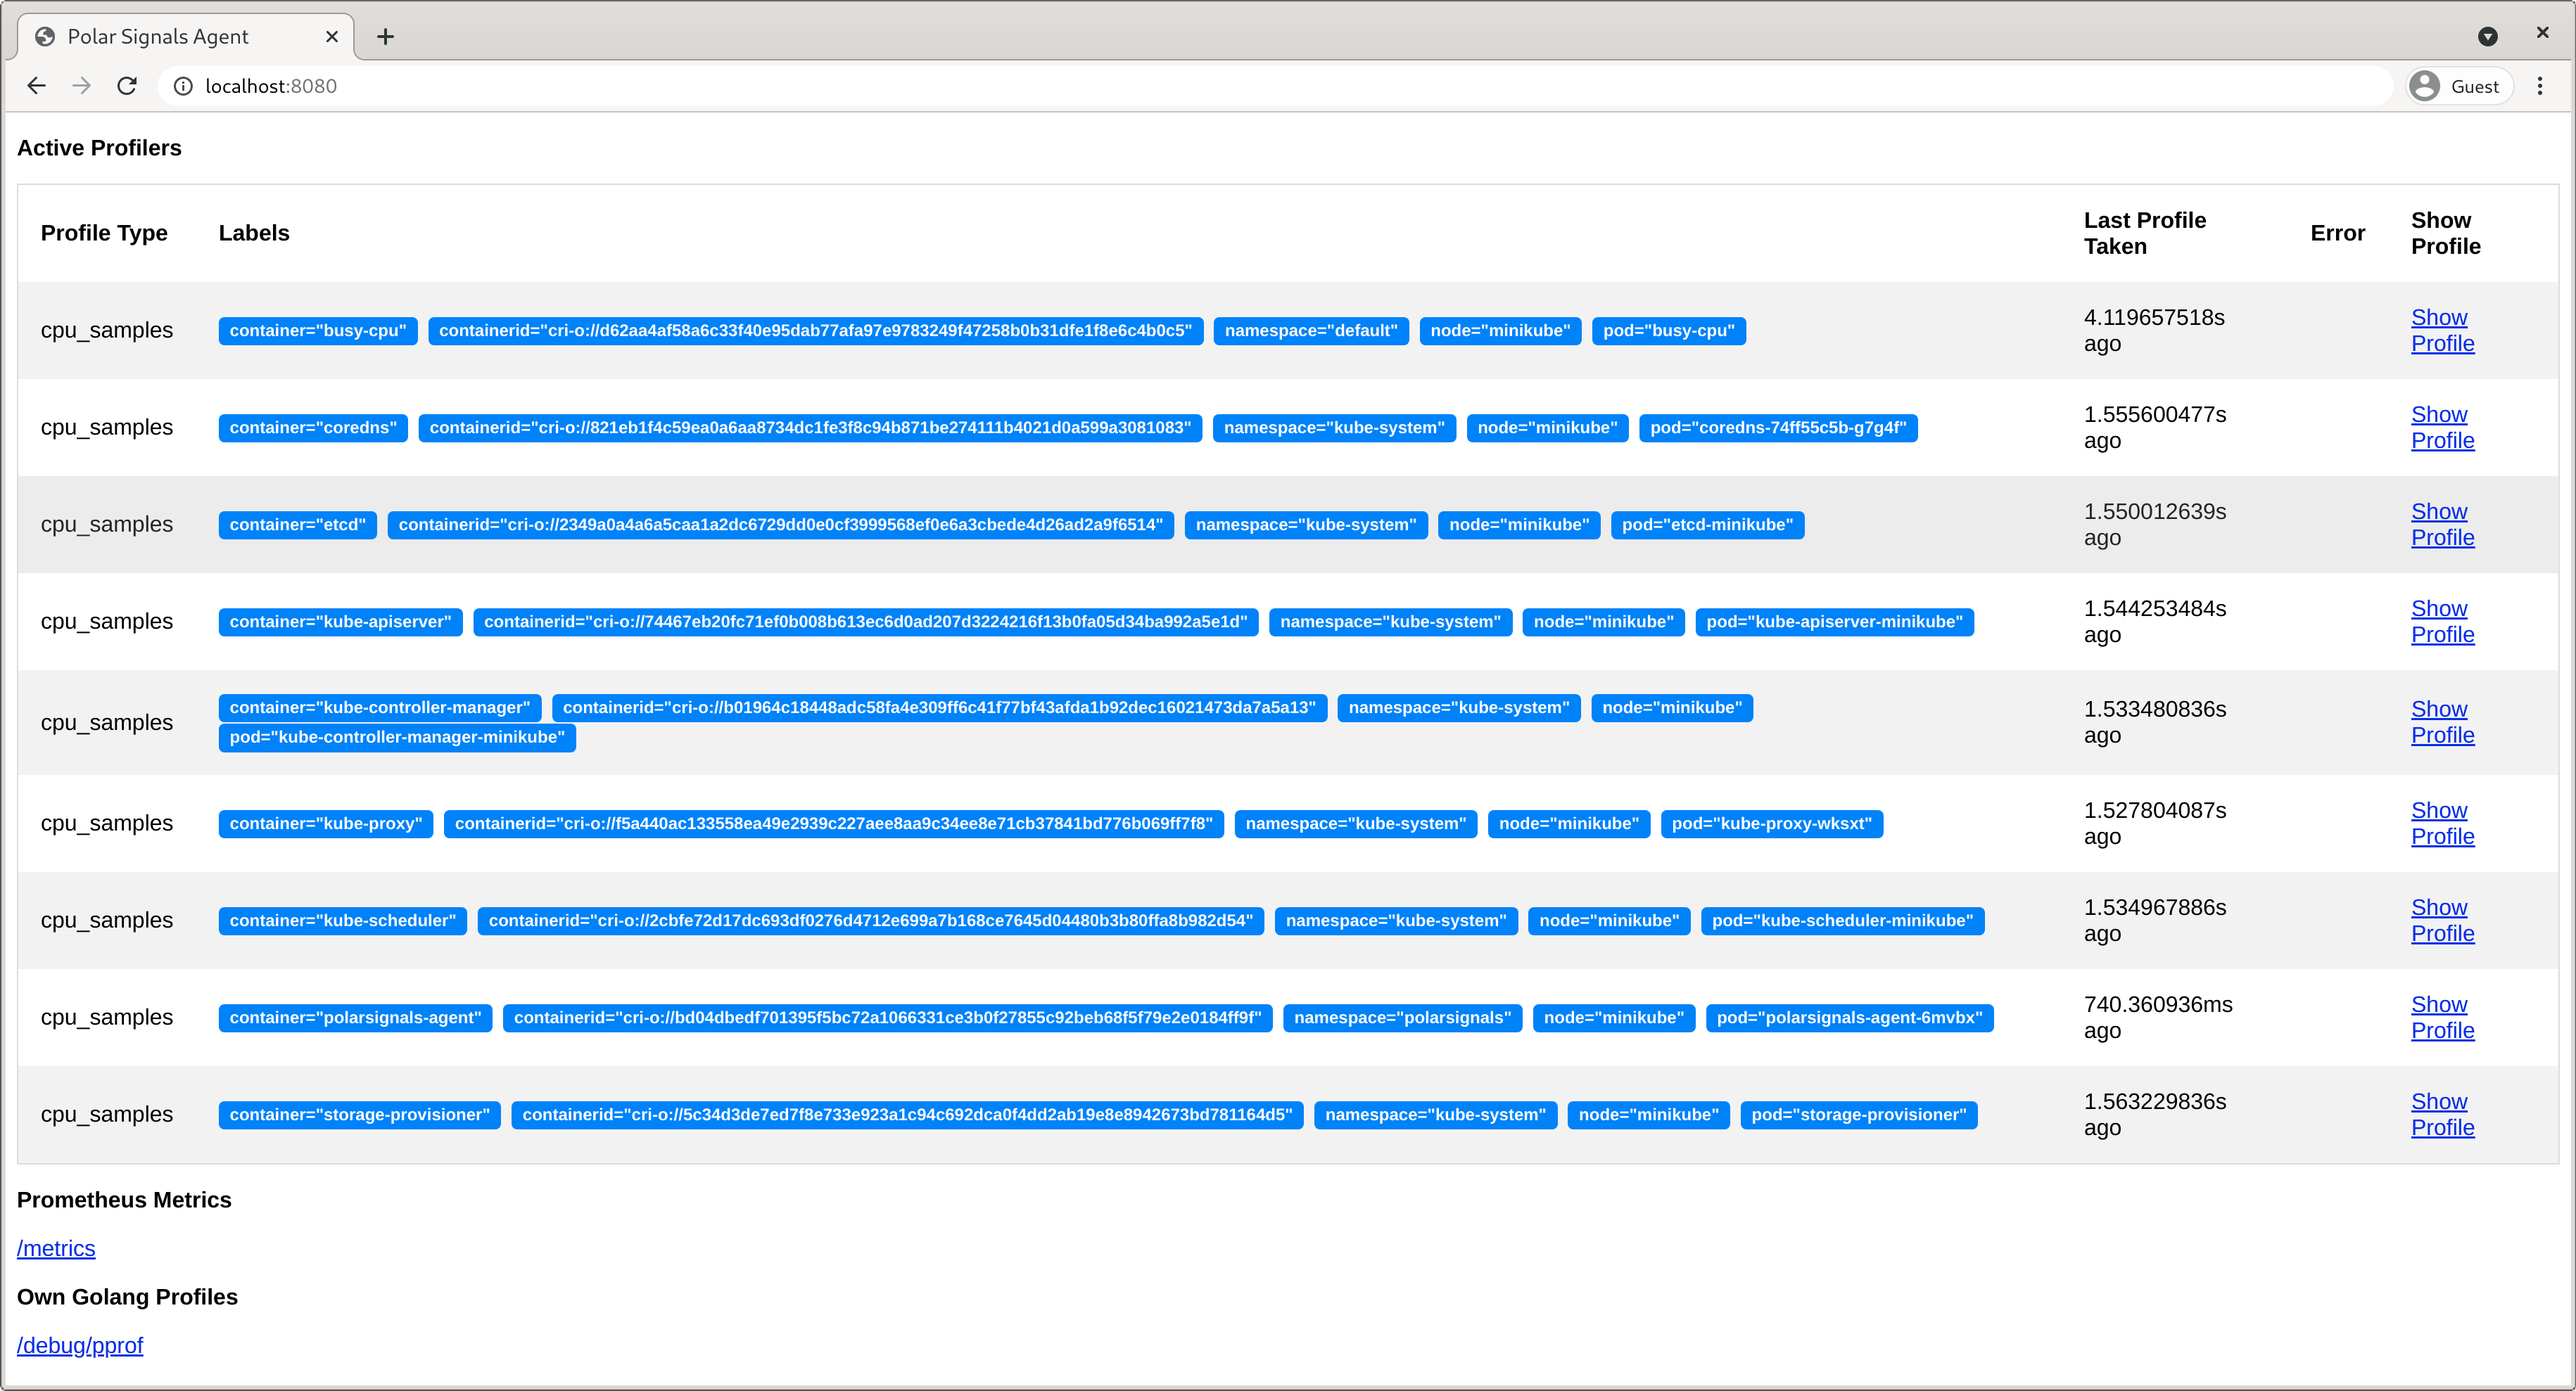
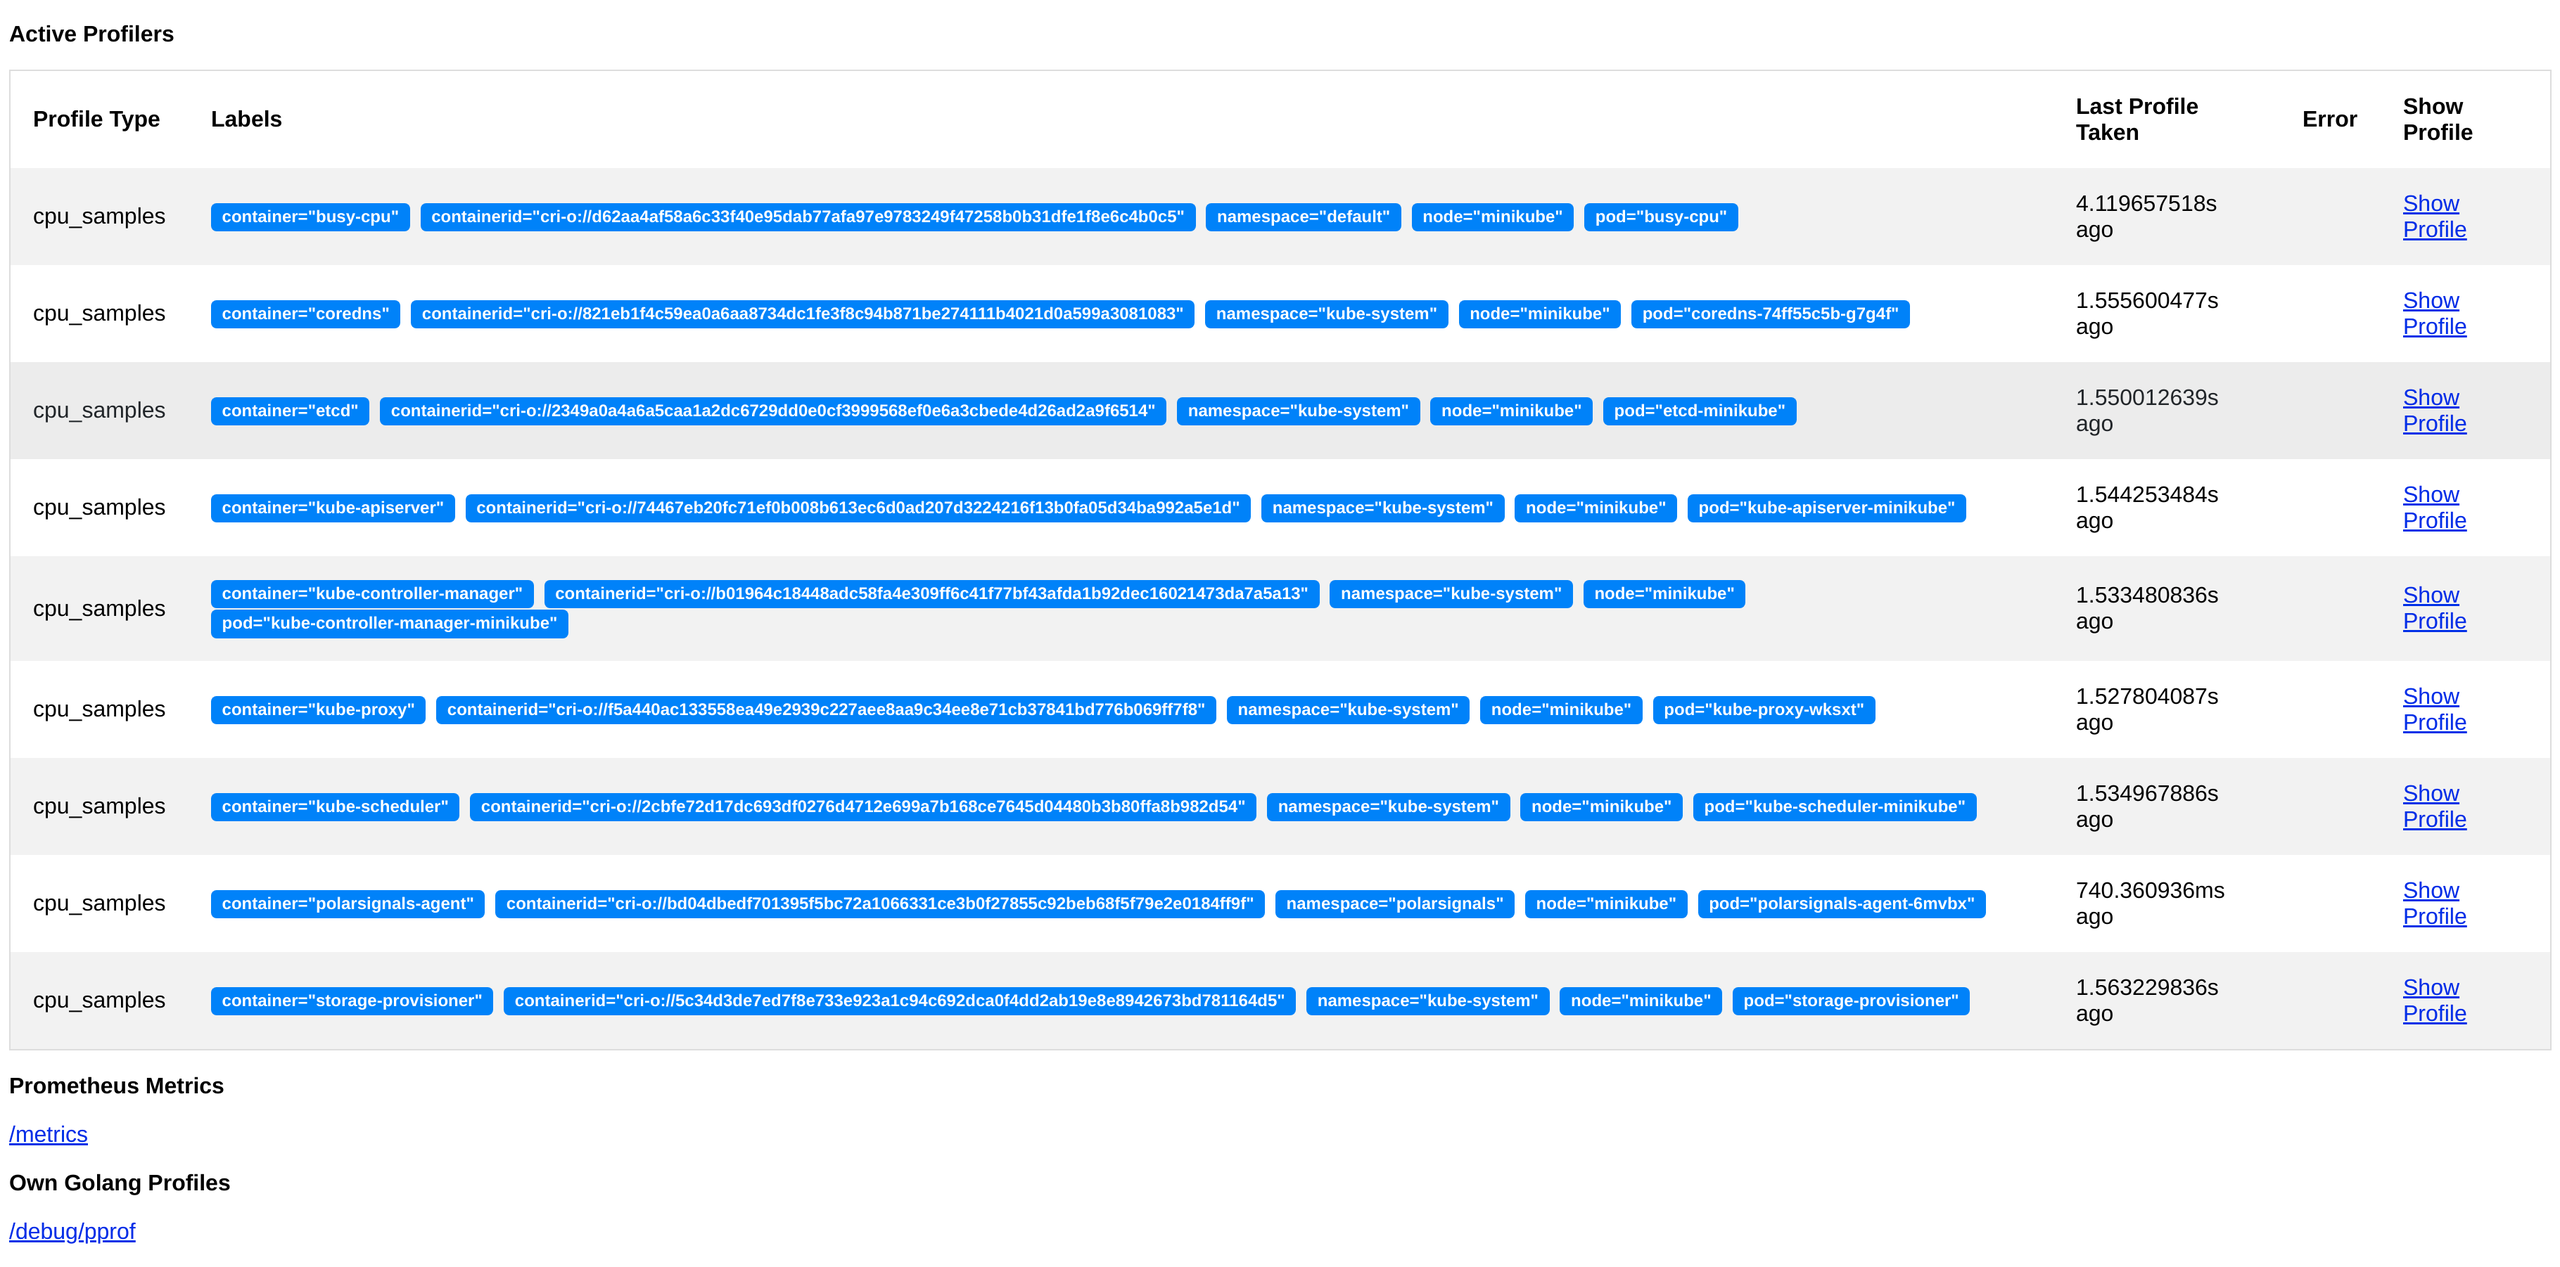
Add BrowserWindow component
This component is 1-to-1 copied from the docusaurus repo, hence why the
copyright headers have been left in tact.

diff --git a/src/components/BrowserWindow/index.tsx b/src/components/BrowserWindow/index.tsx
@@ -1,0 +1,42 @@
+/**
+ * Copyright (c) Facebook, Inc. and its affiliates.
+ *
+ * This source code is licensed under the MIT license found in the
+ * LICENSE file in the root directory of this source tree.
+ */
+
+import React, {ReactNode} from 'react';
+
+import styles from './styles.module.css';
+
+interface Props {
+  children: ReactNode;
+  minHeight: number;
+  url: string;
+}
+
+function BrowserWindow({children, minHeight, url}: Props) {
+  return (
+    <div className={styles.browserWindow} style={{minHeight}}>
+      <div className={styles.browserWindowHeader}>
+        <div className={styles.buttons}>
+          <span className={styles.dot} style={{background: '#f25f58'}} />
+          <span className={styles.dot} style={{background: '#fbbe3c'}} />
+          <span className={styles.dot} style={{background: '#58cb42'}} />
+        </div>
+        <div className={styles.browserWindowAddressBar}>{url}</div>
+        <div className={styles.browserWindowMenuIcon}>
+          <div>
+            <span className={styles.bar} />
+            <span className={styles.bar} />
+            <span className={styles.bar} />
+          </div>
+        </div>
+      </div>
+
+      <div className={styles.browserWindowBody}>{children}</div>
+    </div>
+  );
+}
+
+export default BrowserWindow;

diff --git a/src/components/BrowserWindow/styles.module.css b/src/components/BrowserWindow/styles.module.css
@@ -1,0 +1,71 @@
+/**
+ * Copyright (c) Facebook, Inc. and its affiliates.
+ *
+ * This source code is licensed under the MIT license found in the
+ * LICENSE file in the root directory of this source tree.
+ */
+
+.browserWindow {
+  border: 3px solid var(--ifm-color-emphasis-200);
+  border-top-left-radius: var(--ifm-global-radius);
+  border-top-right-radius: var(--ifm-global-radius);
+}
+
+.browserWindowHeader {
+  align-items: center;
+  background: var(--ifm-color-emphasis-200);
+  display: flex;
+  padding: 0.5rem 1rem;
+}
+
+.row:after {
+  content: '';
+  display: table;
+  clear: both;
+}
+
+.buttons {
+  white-space: nowrap;
+}
+
+.right {
+  align-self: center;
+  width: 10%;
+}
+
+.browserWindowAddressBar {
+  flex: 1 0;
+  margin: 0 1rem 0 0.5rem;
+  border-radius: 12.5px;
+  background-color: #fff;
+  color: #666;
+  padding: 5px 15px;
+  font: 400 13px Arial;
+  user-select: none;
+}
+
+.dot {
+  margin-right: 6px;
+  margin-top: 4px;
+  height: 12px;
+  width: 12px;
+  background-color: #bbb;
+  border-radius: 50%;
+  display: inline-block;
+}
+
+.browserWindowMenuIcon {
+  margin-left: auto;
+}
+
+.bar {
+  width: 17px;
+  height: 3px;
+  background-color: #aaa;
+  margin: 3px 0;
+  display: block;
+}
+
+.browserWindowBody {
+  padding: 1rem;
+}
